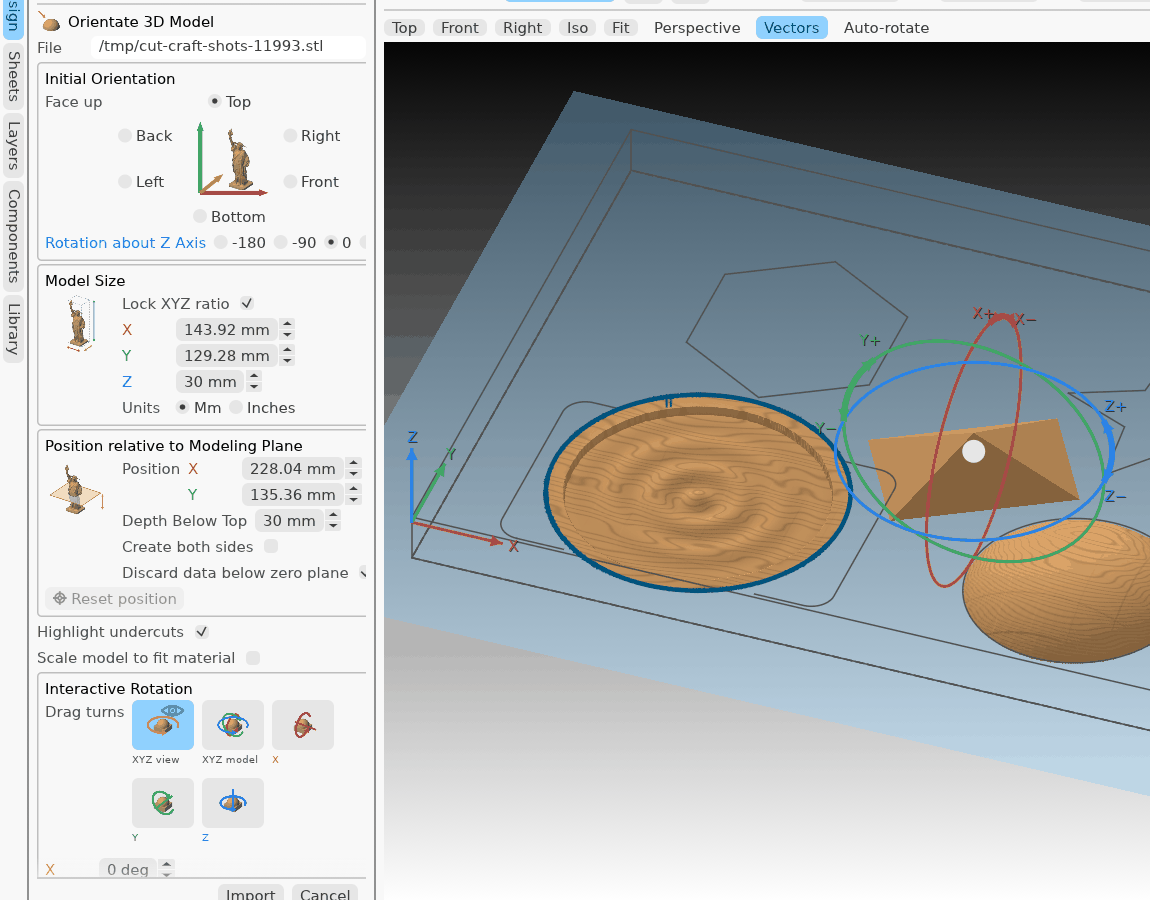
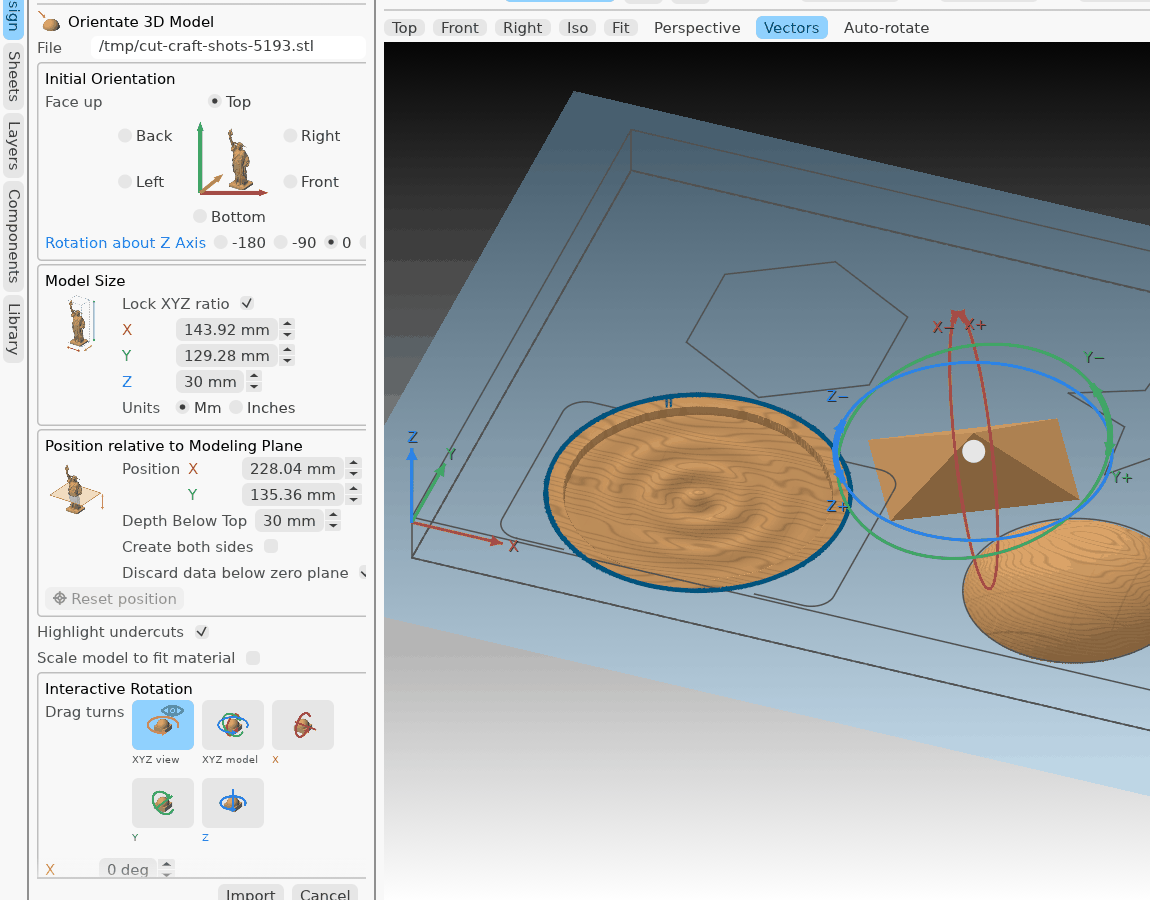
fix: dragging a ring changes only its own box
The rings now tilt with the turns made after their own (Y with the Z
turn, X with the Z and Y turns), so each ring goes round the axis its
box turns the model about. A drag adds to that box alone and the model
turns the way the ring's + arrow shows; untouched, every ring is still
square to the job's own axis. Replaces the composed turn that could
change several boxes at once. Ring labels spaced a little wider; help
and its picture updated.

Claude-Session: https://claude.ai/code/session_01Uqr4BJhtcAjBTP7ved1gqu

Changed region(s): [[0.7, 0.3422, 0.9739, 0.6533], [0.2435, 0.0311, 0.2739, 0.0622]]

diff --git a/crates/app/src/app/panels.rs b/crates/app/src/app/panels.rs
@@ -2292,18 +2292,14 @@ impl CutCraftApp {
                 // a drag from a rotation ring turns about its axis, whatever Drag turns says
                 let mode = ring.or(turn["mode"].as_str()).map(str::to_owned);
                 match mode.as_deref() {
-                    // a ring held turns the model the way the drag goes round it, about the
-                    // job's own axis the ring is drawn round
+                    // a ring held turns the model the way the drag goes round it, its own box
+                    // alone (the ring is drawn round the axis that box turns about)
                     Some(axis @ ("x" | "y" | "z")) if ring.is_some() && grip.is_some() => {
                         let (along, radius) = grip.unwrap_or_default();
-                        let keys = ["x", "y", "z"];
-                        let now = keys.map(|k| turn[k].as_f64().unwrap_or(0.0));
-                        let about = crate::axes::Axis::named(axis).unwrap_or(crate::axes::Axis::Z);
-                        let by = crate::axes::ring_turn(delta, along, radius);
-                        let then = crate::axes::turned_about(now, about, by);
-                        for (k, v) in keys.into_iter().zip(then) {
-                            turn[k] = Value::from(v);
-                        }
+                        add(
+                            &mut turn[axis],
+                            crate::axes::ring_turn(delta, along, radius),
+                        );
                     }
                     Some("x") => add(&mut turn["x"], about_x),
                     Some("y") => add(&mut turn["y"], about_z),
@@ -3472,8 +3468,10 @@ impl CutCraftApp {
     /// green and blue rings round it turn it about X, Y and Z (the axis colours used
     /// everywhere), and the grey sphere in its middle about all three. Each ring has arrows
     /// both ways round where it stands out most, the + way marked (X+ and X−): dragging
-    /// along the ring that way turns the model by a positive angle, as the X, Y and Z boxes
-    /// count it (help: Import 3D Model, Initial Orientation).
+    /// along the ring that way turns the model by a positive angle in that ring's box alone.
+    /// Before any turn each ring is square to the job's own axis; turned, the Y ring tilts
+    /// with the Z turn and the X ring with the Z and Y turns, so a ring always goes round
+    /// the axis its box turns about (help: Orientate 3D Model, Turning the model).
     fn rings_3d(&mut self, ui: &egui::Ui, area: egui::Rect, fit: egui::Rect) {
         use crate::axes::Axis;
         use cut_craft_core::glam::DVec3;
@@ -3510,17 +3508,24 @@ impl CutCraftApp {
         // Z over towards X, Z turns X round towards Y)
         let steps = 72;
         let mut looks = vec![];
+        let turns = self.form.as_ref().map_or([0.0; 3], |f| {
+            ["x", "y", "z"].map(|k| f.params["turn"][k].as_f64().unwrap_or(0.0))
+        });
         for axis in Axis::ALL {
+            // tilted with the turns made after its own, so it goes round the axis its box
+            // turns the model about
+            let frame = crate::axes::ring_frame(turns, axis);
             let points: Vec<egui::Pos2> = (0..=steps)
                 .map(|i| {
                     let a = std::f64::consts::TAU * f64::from(i) / f64::from(steps);
                     let (c, s) = (a.cos() * reach, a.sin() * reach);
                     middle
-                        + match axis {
-                            Axis::X => DVec3::new(0.0, c, s),
-                            Axis::Y => DVec3::new(s, 0.0, c),
-                            Axis::Z => DVec3::new(c, s, 0.0),
-                        }
+                        + frame
+                            * match axis {
+                                Axis::X => DVec3::new(0.0, c, s),
+                                Axis::Y => DVec3::new(s, 0.0, c),
+                                Axis::Z => DVec3::new(c, s, 0.0),
+                            }
                 })
                 .map(screen)
                 .collect();
@@ -5614,7 +5619,8 @@ fn ring_arrows(
     for (k, inner, sign) in ends {
         let (tip, before) = (at(k), at(inner));
         crate::axes::head(painter, tip, tip - before, head, stroke.color);
-        let out = (tip - centre).normalized() * head * 1.5 + (tip - before).normalized() * head;
+        let out =
+            (tip - centre).normalized() * head * 1.5 + (tip - before).normalized() * head * 2.0;
         crate::axes::tag(
             painter,
             tip + out,

diff --git a/crates/app/src/axes.rs b/crates/app/src/axes.rs
@@ -154,23 +154,20 @@ pub fn rings_marks(rings: &[&[Pos2]], centre: Pos2, gap: f32) -> Vec<Option<(usi
         .collect()
 }
 
-/// Fine turns about X, Y and Z (degrees, applied X first, then Y, then Z, as Import 3D
-/// Model applies them) after the model is turned a further `degrees` about the job's own
-/// `axis`, the way that axis's ring shows: the same three turns given back, so a ring turns
-/// the model about the axis it is drawn round whatever the other turns are.
+/// How a ring for `axis` is tilted, given the fine turns about X, Y and Z (degrees, applied
+/// X first, then Y, then Z, as Import 3D Model applies them): the Z ring lies flat on the
+/// job, the Y ring turned with the Z turn, the X ring with the Z and Y turns. So each ring
+/// is drawn round the axis its own box turns the model about: dragging it changes only
+/// that box, and the model turns the way the ring's + arrow shows.
 #[must_use]
-pub fn turned_about(turns: [f64; 3], axis: Axis, degrees: f64) -> [f64; 3] {
-    use cut_craft_core::glam::{DMat3, EulerRot};
-    let [x, y, z] = turns.map(f64::to_radians);
-    let now = DMat3::from_euler(EulerRot::ZYX, z, y, x);
-    let then = DMat3::from_axis_angle(axis.direction(), degrees.to_radians()) * now;
-    let (z, y, x) = then.to_euler(EulerRot::ZYX);
-    // a millionth of a degree is noise from the sums, not a turn anyone made
-    let tidy = |a: f64| {
-        let d = (a.to_degrees() * 1e6).round() / 1e6;
-        if d == 0.0 { 0.0 } else { d }
-    };
-    [tidy(x), tidy(y), tidy(z)]
+pub fn ring_frame(turns: [f64; 3], axis: Axis) -> cut_craft_core::glam::DMat3 {
+    use cut_craft_core::glam::DMat3;
+    let [_, y, z] = turns.map(f64::to_radians);
+    match axis {
+        Axis::Z => DMat3::IDENTITY,
+        Axis::Y => DMat3::from_rotation_z(z),
+        Axis::X => DMat3::from_rotation_z(z) * DMat3::from_rotation_y(y),
+    }
 }
 
 /// How far a drag `by` turns a ring whose screen tangent (the + way) at the pointer is
@@ -225,32 +222,29 @@ mod tests {
     }
 
     #[test]
-    fn a_ring_turns_the_model_about_the_jobs_own_axis_whatever_the_other_turns() {
-        use cut_craft_core::glam::{DMat3, DVec3, EulerRot};
+    fn each_ring_is_drawn_round_the_axis_its_own_box_turns_the_model_about() {
+        use cut_craft_core::glam::{DMat3, DVec3};
         let fine = |[x, y, z]: [f64; 3]| {
-            DMat3::from_euler(
-                EulerRot::ZYX,
-                z.to_radians(),
-                y.to_radians(),
-                x.to_radians(),
-            )
+            DMat3::from_rotation_z(z.to_radians())
+                * DMat3::from_rotation_y(y.to_radians())
+                * DMat3::from_rotation_x(x.to_radians())
         };
-        // nothing else turned: only that axis's own number moves
-        assert_eq!(turned_about([0.0; 3], Axis::X, 10.0), [10.0, 0.0, 0.0]);
-        assert_eq!(
-            turned_about([0.0, 5.0, 0.0], Axis::Y, 10.0),
-            [0.0, 15.0, 0.0]
-        );
-        // spun half round Z first, the red ring still turns it about the job's +X
-        for (start, axis) in [([0.0, 0.0, 180.0], Axis::X), ([30.0, 20.0, 45.0], Axis::Y)] {
-            let after = turned_about(start, axis, 10.0);
-            let step = fine(after) * fine(start).transpose();
-            let want = DMat3::from_axis_angle(axis.direction(), 10f64.to_radians());
-            for c in [DVec3::X, DVec3::Y, DVec3::Z] {
-                assert!(
-                    (step * c - want * c).length() < 1e-6,
-                    "{start:?} {axis:?} {after:?}"
-                );
+        // nothing turned yet: every ring lies square to the job's own axis
+        for axis in Axis::ALL {
+            assert_eq!(ring_frame([0.0; 3], axis), DMat3::IDENTITY);
+        }
+        for start in [[0.0, 0.0, 180.0], [30.0, 20.0, 45.0], [-10.0, 75.0, 120.0]] {
+            for (i, axis) in Axis::ALL.into_iter().enumerate() {
+                // 10 degrees more in that box alone ...
+                let mut after = start;
+                after[i] += 10.0;
+                let step = fine(after) * fine(start).transpose();
+                // ... is a turn the + way about the ring's own axis as drawn
+                let about = ring_frame(start, axis) * axis.direction();
+                let want = DMat3::from_axis_angle(about, 10f64.to_radians());
+                for c in [DVec3::X, DVec3::Y, DVec3::Z] {
+                    assert!((step * c - want * c).length() < 1e-9, "{start:?} {axis:?}");
+                }
             }
         }
     }

diff --git a/crates/help/pages/tools/orientate_3d_model.md b/crates/help/pages/tools/orientate_3d_model.md
@@ -11,11 +11,13 @@ as the **X**, **Y** and **Z** boxes under **Interactive Rotation** and the arrow
 cube. Drag the grey ball in the middle to turn it about all three.
 
 Each ring has a pair of arrows, marked **X+** and **X−** on the red ring (Y+ and Y− on the
-green one, and so on). Drag along the ring the way the **+** arrow points and the model
-turns the + way about that axis of the job; drag the **−** way and it turns back. With
-nothing else turned, that ring's box goes up and down with it. Once the model is turned
-about another axis too, a ring still turns it about the axis it is drawn round, so more
-than one box can change.
+green one, and so on). Drag along the ring the way the **+** arrow points and the angle in
+that ring's box goes up; drag the **−** way and it goes down. Only that box changes.
+
+Before you turn anything, each ring is square to the job's own X, Y or Z. Once you have
+turned the model about Z, the green Y ring turns with it, and the red X ring follows the Z
+and Y turns. That way each ring always goes round the axis its own box turns the model
+about, so the model turns exactly the way the ring's arrows show.
 
 ![The red, green and blue rings round a model, each with its + and − arrows](pictures/turn-rings.png)
 
